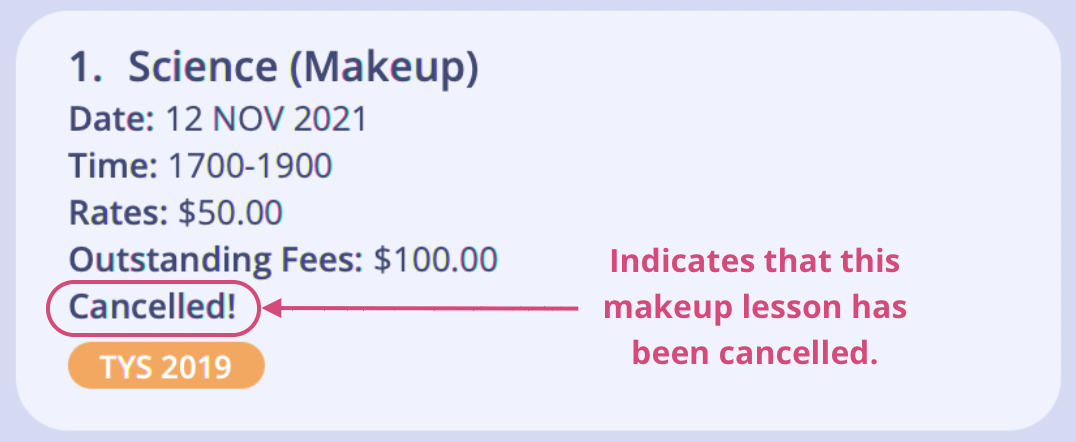
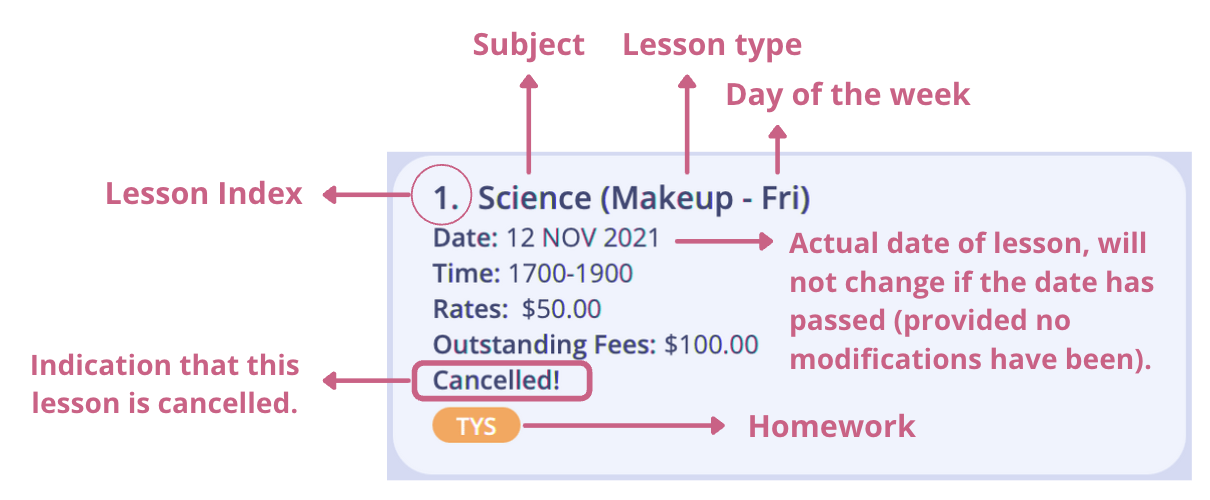
Add annotated lesson cards

Changed region(s): [[0.0, 0.0, 1.0, 1.0], [0.0613, 0.4412, 0.276, 0.5294], [0.0613, 0.1176, 0.092, 0.2059]]

diff --git a/docs/UserGuide.md b/docs/UserGuide.md
@@ -539,77 +539,9 @@ This section guides you on how to use the commands for managing the lessons of y
 
 <div class="caption">Layout of a recurring lesson card.</div>
 
-The following table describes the different sections shown on a lesson card:
+![lessonCard](images/annotatedMakeupLessonCard.png)
 
-<table id="student-param-table">
-    <thead>
-        <tr>
-            <th style="text-align:center; padding: 10px">Section</th>
-            <th style="text-align:center">Description</th>
-        </tr>
-    </thead>
-    <tbody>
-        <tr>
-            <td>Lesson Index</td>
-            <td>Identifier of the lesson.</td>
-        </tr>
-        <tr>
-            <td>Lesson Title</td>
-            <td>Lesson subject together with the type of lesson (recurring / makeup).</td>
-        </tr>
-        <tr>
-            <td>Date Range</td>
-            <td>Start date to end date of the lesson.
-              <ul> 
-                <li> If the end date of the recurring lesson is not specified, the default end date will be shown as ∞.</li> 
-                <li>As makeup lessons have only one date (same start and end date), date range will <strong>not</strong> be shown for makeup lessons.</li>
-              </ul>
-            </td>
-        </tr>
-        <tr>
-            <td>Date</td>
-            <td>For recurring lessons: 
-              <ul>
-                <li> Date of the nearest upcoming lesson.</li> 
-                <li>This displayed date will be updated to the following week once it has passed.</li>
-                </ul> 
-              For makeup lessons: 
-                <ul>
-                  <li>Actual date of the lesson.</li>
-                  <li>This date will <strong>not</strong> change if the date has passed (provided no data modifications have been made to the lesson).</li>
-                </ul>
-            </td>
-        </tr>
-        <tr>
-            <td>Time</td>
-            <td>Time range of the lesson.</td>
-        </tr>
-        <tr>
-            <td>Rates</td>
-            <td>Hourly amount charged for the lesson.</td>
-        </tr>
-        <tr>
-            <td>Outstanding Fees</td>
-            <td>Total amount due for this lesson.</td>
-        </tr>
-        <tr>
-            <td>Cancelled Date(s)</td>
-            <td>
-              <ul>
-                <li>The dates on which the lesson has been cancelled.</li> 
-                <li>This field will only be shown for recurring lessons.</li> 
-                <li>Makeup lessons that have been cancelled will be displayed as such: 
-                  <img src="images/annotatedMakeupLessonCard.png" />
-                  <div class="caption">Layout of a cancelled makeup lesson.</div> </li> 
-              </ul>
-            </td>
-        </tr>
-        <tr>
-            <td>Homework</td>
-            <td>Homework given to the student.</td>
-        </tr>
-    </tbody>
-</table>
+<div class="caption">Layout of a cancelled makeup lesson card.</div>
 
 A lesson **must** have the following fields: a start date, a time range, a lesson rate and a subject.
 
